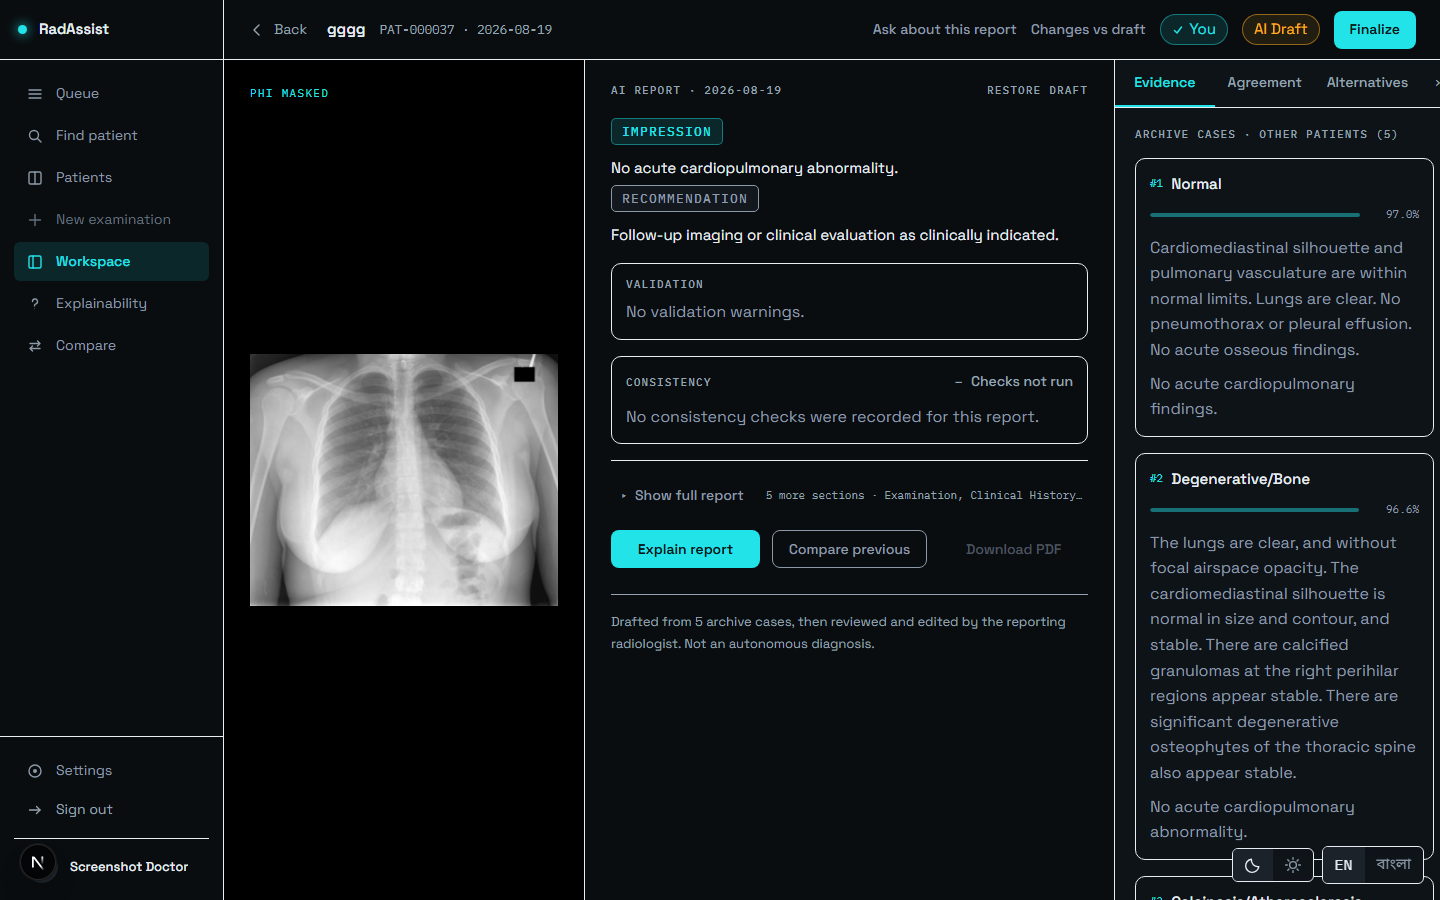
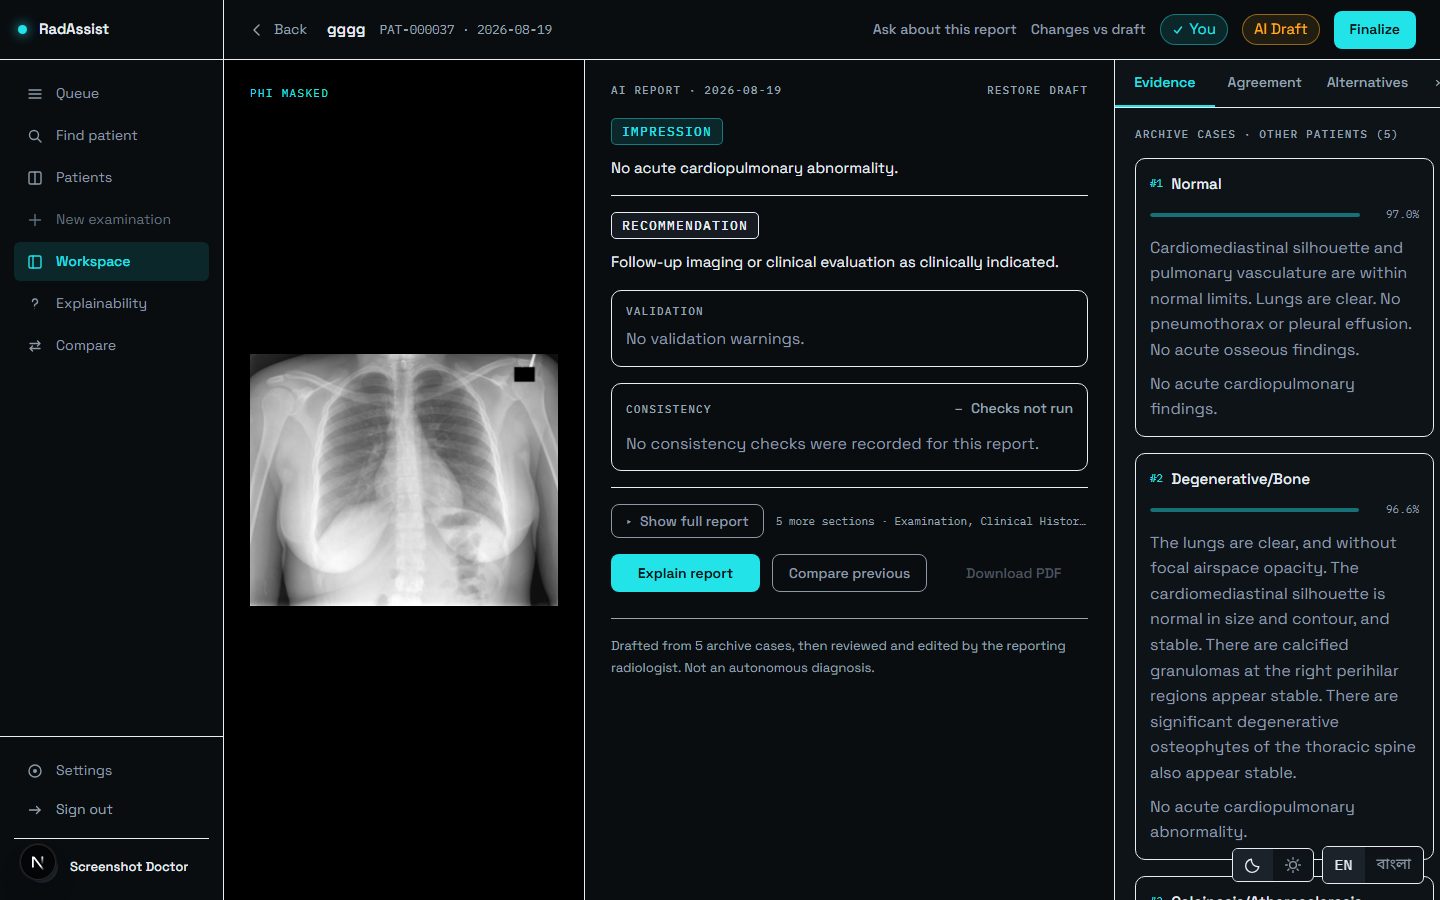
fix(ui): make the full-report toggle read as a button, and the section headings as headings
Both reported from the rendered screen, not from the code.

The disclosure control was a line of text with a small chevron. It was already
a real <button> -- the existing test asserted the tag and passed the whole time
-- but nothing about it looked pressable, and it is the control that decides
whether five sections of a clinical document are on screen. It now uses the
product's own button primitives (BUTTON_BASE + the bordered `secondary`
variant, `sm`), so it is visibly a button without competing with Finalize, the
one primary action on this screen. A new test asserts the affordance classes,
since the tag assertion demonstrably could not catch this.

The section headings were set in text-secondary -- the mid-grey this app uses
for captions -- over the flat hover fill, so on a dark surface the chips were
quieter than the body text they introduce, which is backwards for the thing
whose only job is to say where you are. Now primary text on the raised fill;
raising the text and the fill together is what makes a chip read as a chip.
IMPRESSION keeps cyan to itself, so the differentiator between "the conclusion"
and "a section" stays hue rather than weight.

The sections also had no separation: EditableReportSection used py-3 (3px), so
seven sections ran together, while ReportDocumentView already rendered the same
seven fields as blocks separated by a hairline on py-16. The workspace now uses
that same rhythm -- one document, one rhythm -- and a test pins the two
[…]

Changed region(s): [[0.4062, 0.2178, 0.75, 0.7467]]

diff --git a/frontend/src/components/report/full-report-disclosure.tsx b/frontend/src/components/report/full-report-disclosure.tsx
@@ -2,6 +2,7 @@
 
 import { useT } from "@/lib/i18n";
 import { cn } from "@/lib/cn";
+import { BUTTON_BASE, SIZE, VARIANT } from "@/components/ui/button";
 
 /**
  * The "Full report" disclosure: everything the summary does not already show.
@@ -75,13 +76,19 @@ export function FullReportDisclosure({
           aria-expanded={open}
           aria-controls={id}
           className={cn(
-            // flex-none + nowrap: the hint beside it is long, and without this
-            // the control itself is what flex shrinks, breaking "Show full
-            // report" across two lines.
-            "flex flex-none items-center gap-8 whitespace-nowrap rounded-control px-10 py-8",
-            "text-sm font-medium",
-            "text-text-secondary transition-colors duration-hover hover:text-cyan",
-            "disabled:cursor-default disabled:text-text-tertiary disabled:hover:text-text-tertiary",
+            // A real button, drawn with the product's own button primitives
+            // rather than as a line of text with a chevron. It was the latter
+            // and read as a label -- the one control that decides whether five
+            // sections of a clinical document are on screen has to look like
+            // something you press. `secondary` is the bordered, quiet variant:
+            // visibly a button, without competing with Finalize, which is the
+            // single primary action on this screen.
+            BUTTON_BASE,
+            VARIANT.secondary,
+            SIZE.sm,
+            // flex-none: the hint beside it is long, and without this the
+            // control is what flex shrinks, breaking the label onto two lines.
+            "flex-none",
           )}
         >
           <span aria-hidden="true" className="font-mono text-mono-meta">

diff --git a/frontend/src/components/report/report-typography.test.ts b/frontend/src/components/report/report-typography.test.ts
@@ -84,6 +84,32 @@ describe("the evidence panel is set like the report column", () => {
   });
 });
 
+describe("section headings are the structure, and read like it", () => {
+  it("sets non-impression labels in primary text on the raised fill", () => {
+    // They were text-secondary on bg-hover -- quieter than the body text they
+    // introduce, which is backwards for a heading, and was reported as not
+    // catching the eye.
+    const label = src("./report-typography.ts");
+    expect(label).toContain("border-strong bg-bg-hover-alt text-text-primary");
+    expect(label).not.toContain("border-strong bg-bg-hover text-text-secondary");
+  });
+
+  it("still gives IMPRESSION the cyan treatment alone", () => {
+    // Raising the other six must not dilute the one marked section: the
+    // differentiator stays hue, never weight.
+    expect(src("./report-typography.ts")).toContain("border-cyan-line bg-cyan-wash text-cyan");
+  });
+
+  it("separates workspace sections on the same rhythm as the read-only document", () => {
+    // EditableReportSection used py-3 -- 3px -- so seven sections ran together
+    // while ReportDocumentView rendered the same seven fields as separated
+    // blocks. One document, one rhythm.
+    const rhythm = "border-b border-hairline py-16 first:pt-0 last:border-0 last:pb-0";
+    expect(src("./editable-report-section.tsx")).toContain(rhythm);
+    expect(src("./report-document-view.tsx")).toContain(rhythm);
+  });
+});
+
 describe("the type floor is respected", () => {
   it("defines the shared body token at 16px, well clear of the 11px floor", () => {
     const config = src("../../../tailwind.config.ts");

diff --git a/frontend/src/components/report/full-report-disclosure.test.tsx b/frontend/src/components/report/full-report-disclosure.test.tsx
@@ -10,6 +10,7 @@ import { afterEach, beforeEach, describe, expect, it, vi } from "vitest";
 import { useEffect, useState } from "react";
 import { cleanup, fireEvent, render, screen } from "@testing-library/react";
 import { LanguageProvider } from "@/lib/i18n";
+import { BUTTON_BASE, SIZE, VARIANT } from "@/components/ui/button";
 import { usePersistedToggle } from "@/lib/use-persisted-toggle";
 import { shouldForceFullReport, type FullReportForceState } from "@/lib/full-report-rules";
 import { FullReportDisclosure } from "./full-report-disclosure";
@@ -115,6 +116,22 @@ describe("Full report disclosure — default and toggle", () => {
     // fireEvent.click test while failing a keyboard user.
     expect(toggle().tagName).toBe("BUTTON");
     expect(toggle().getAttribute("disabled")).toBeNull();
+  });
+
+  it("is drawn with the product's button primitives, so it LOOKS pressable", () => {
+    render(<Harness />);
+    // Being a <button> is not the same as looking like one. This control
+    // shipped as a line of text with a chevron and was reported as not
+    // reading as a button at all -- the tag assertion above passed the whole
+    // time. So the affordance is asserted separately: it carries the shared
+    // button base and the bordered `secondary` variant, rather than ad-hoc
+    // classes that can drift back into looking like a label.
+    const cls = toggle().className;
+    for (const fragment of [BUTTON_BASE, VARIANT.secondary, SIZE.sm]) {
+      for (const token of fragment.split(/\s+/).filter(Boolean)) {
+        expect(cls, `expected the toggle to carry "${token}"`).toContain(token);
+      }
+    }
   });
 });
 

diff --git a/frontend/src/components/report/report-typography.ts b/frontend/src/components/report/report-typography.ts
@@ -88,5 +88,16 @@ export function reportLabelClass(field?: ReportFieldKey): string {
     "inline-flex items-center rounded-chip border px-10 py-5 font-mono text-section-label uppercase";
   return field === "impression"
     ? `${base} border-cyan-line bg-cyan-wash text-cyan`
-    : `${base} border-strong bg-bg-hover text-text-secondary`;
+    : // Primary text on the raised fill, not secondary on the flat one. The
+      // chips were set in `text-text-secondary` -- the same mid-grey as
+      // captions -- over `bg-bg-hover`, so on a dark surface they were quieter
+      // than the body text they introduce, which is backwards for the thing
+      // whose only job is to say where you are. A reader reported them as not
+      // catching the eye. Raising the text and the fill together is what makes
+      // the chip read as a chip; raising either alone does not.
+      //
+      // IMPRESSION still keeps cyan to itself. The differentiator between "the
+      // conclusion" and "a section" stays hue, never weight -- so making the
+      // other six legible does not dilute the one marked section.
+      `${base} border-strong bg-bg-hover-alt text-text-primary`;
 }

diff --git a/frontend/src/components/report/editable-report-section.tsx b/frontend/src/components/report/editable-report-section.tsx
@@ -132,7 +132,13 @@ export function EditableReportSection({
 
   return (
     <div
-      className="group relative py-3 first:pt-0 last:pb-0"
+      // Sections are separated blocks, not a continuous run of paragraphs.
+      // This was `py-3` -- 3px -- so seven sections ran together and the eye
+      // had nothing to jump between. The rhythm here is the one
+      // ReportDocumentView already uses for the same seven fields
+      // (border-b/py-16, first and last unset), so the workspace and the
+      // read-only document finally look like the same document.
+      className="group relative border-b border-hairline py-16 first:pt-0 last:border-0 last:pb-0"
       tabIndex={canEdit && !editing ? 0 : undefined}
       onKeyDown={(e) => {
         if (!editing && canEdit && (e.key === "Enter" || e.key === " ")) {
